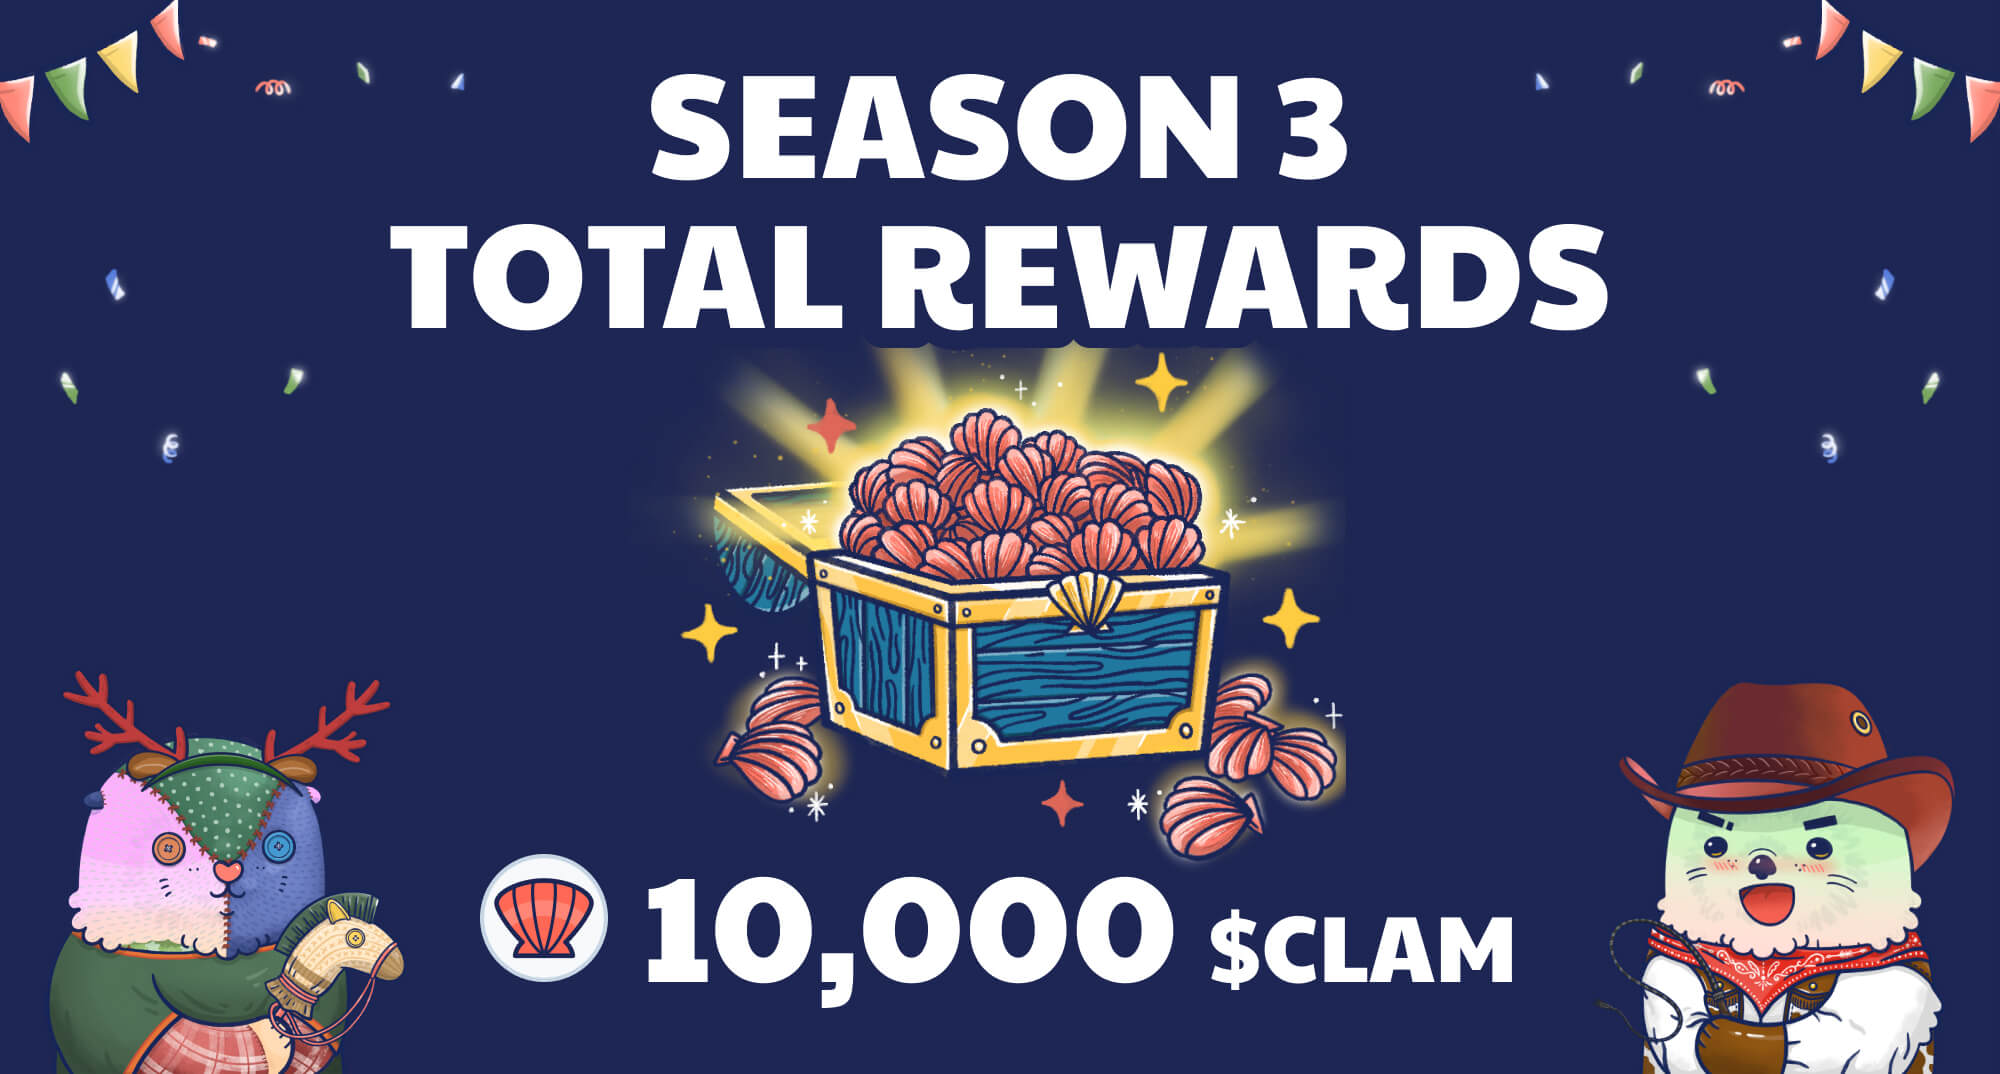
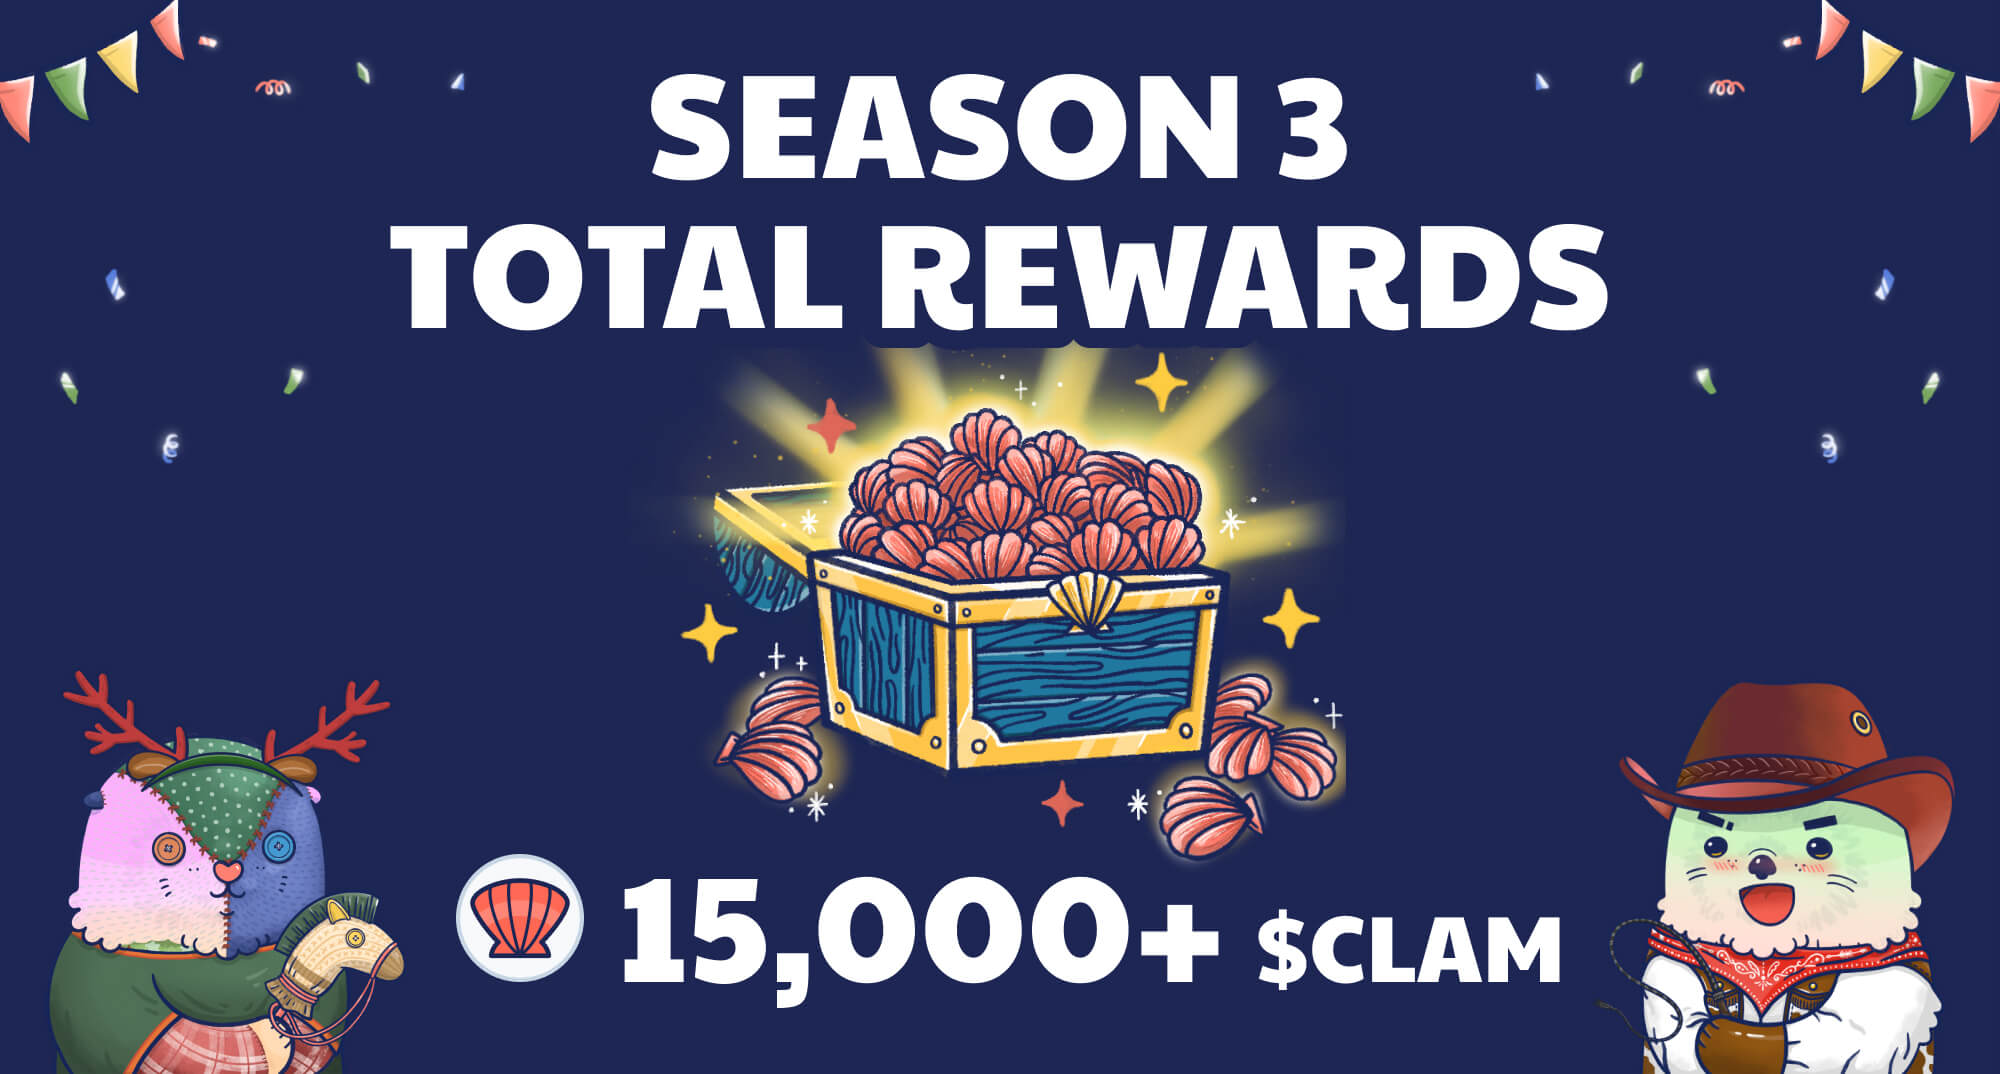
change epochs

Changed region(s): [[0.217, 0.7989, 0.806, 0.9525]]

diff --git a/docs/ottopia/events/rarity-competition-s3.md b/docs/ottopia/events/rarity-competition-s3.md
@@ -171,7 +171,7 @@ The following list shows the percentage of the result types you will get in ever
 
 ## Reward
 
-The reward of the Rarity Competition is in $CLAM. We are preparing a total of 10,000 $CLAM for this season! Each epoch’s reward will be 2,500 $CLAM.
+The reward of the Rarity Competition is in $CLAM. We are preparing a total of more than 15,000 $CLAM for this season! Each epoch’s reward will be started from 2,500 $CLAM.
 
 Start gear up your Otto NFT gang and earn these tasty $CLAM!
 
